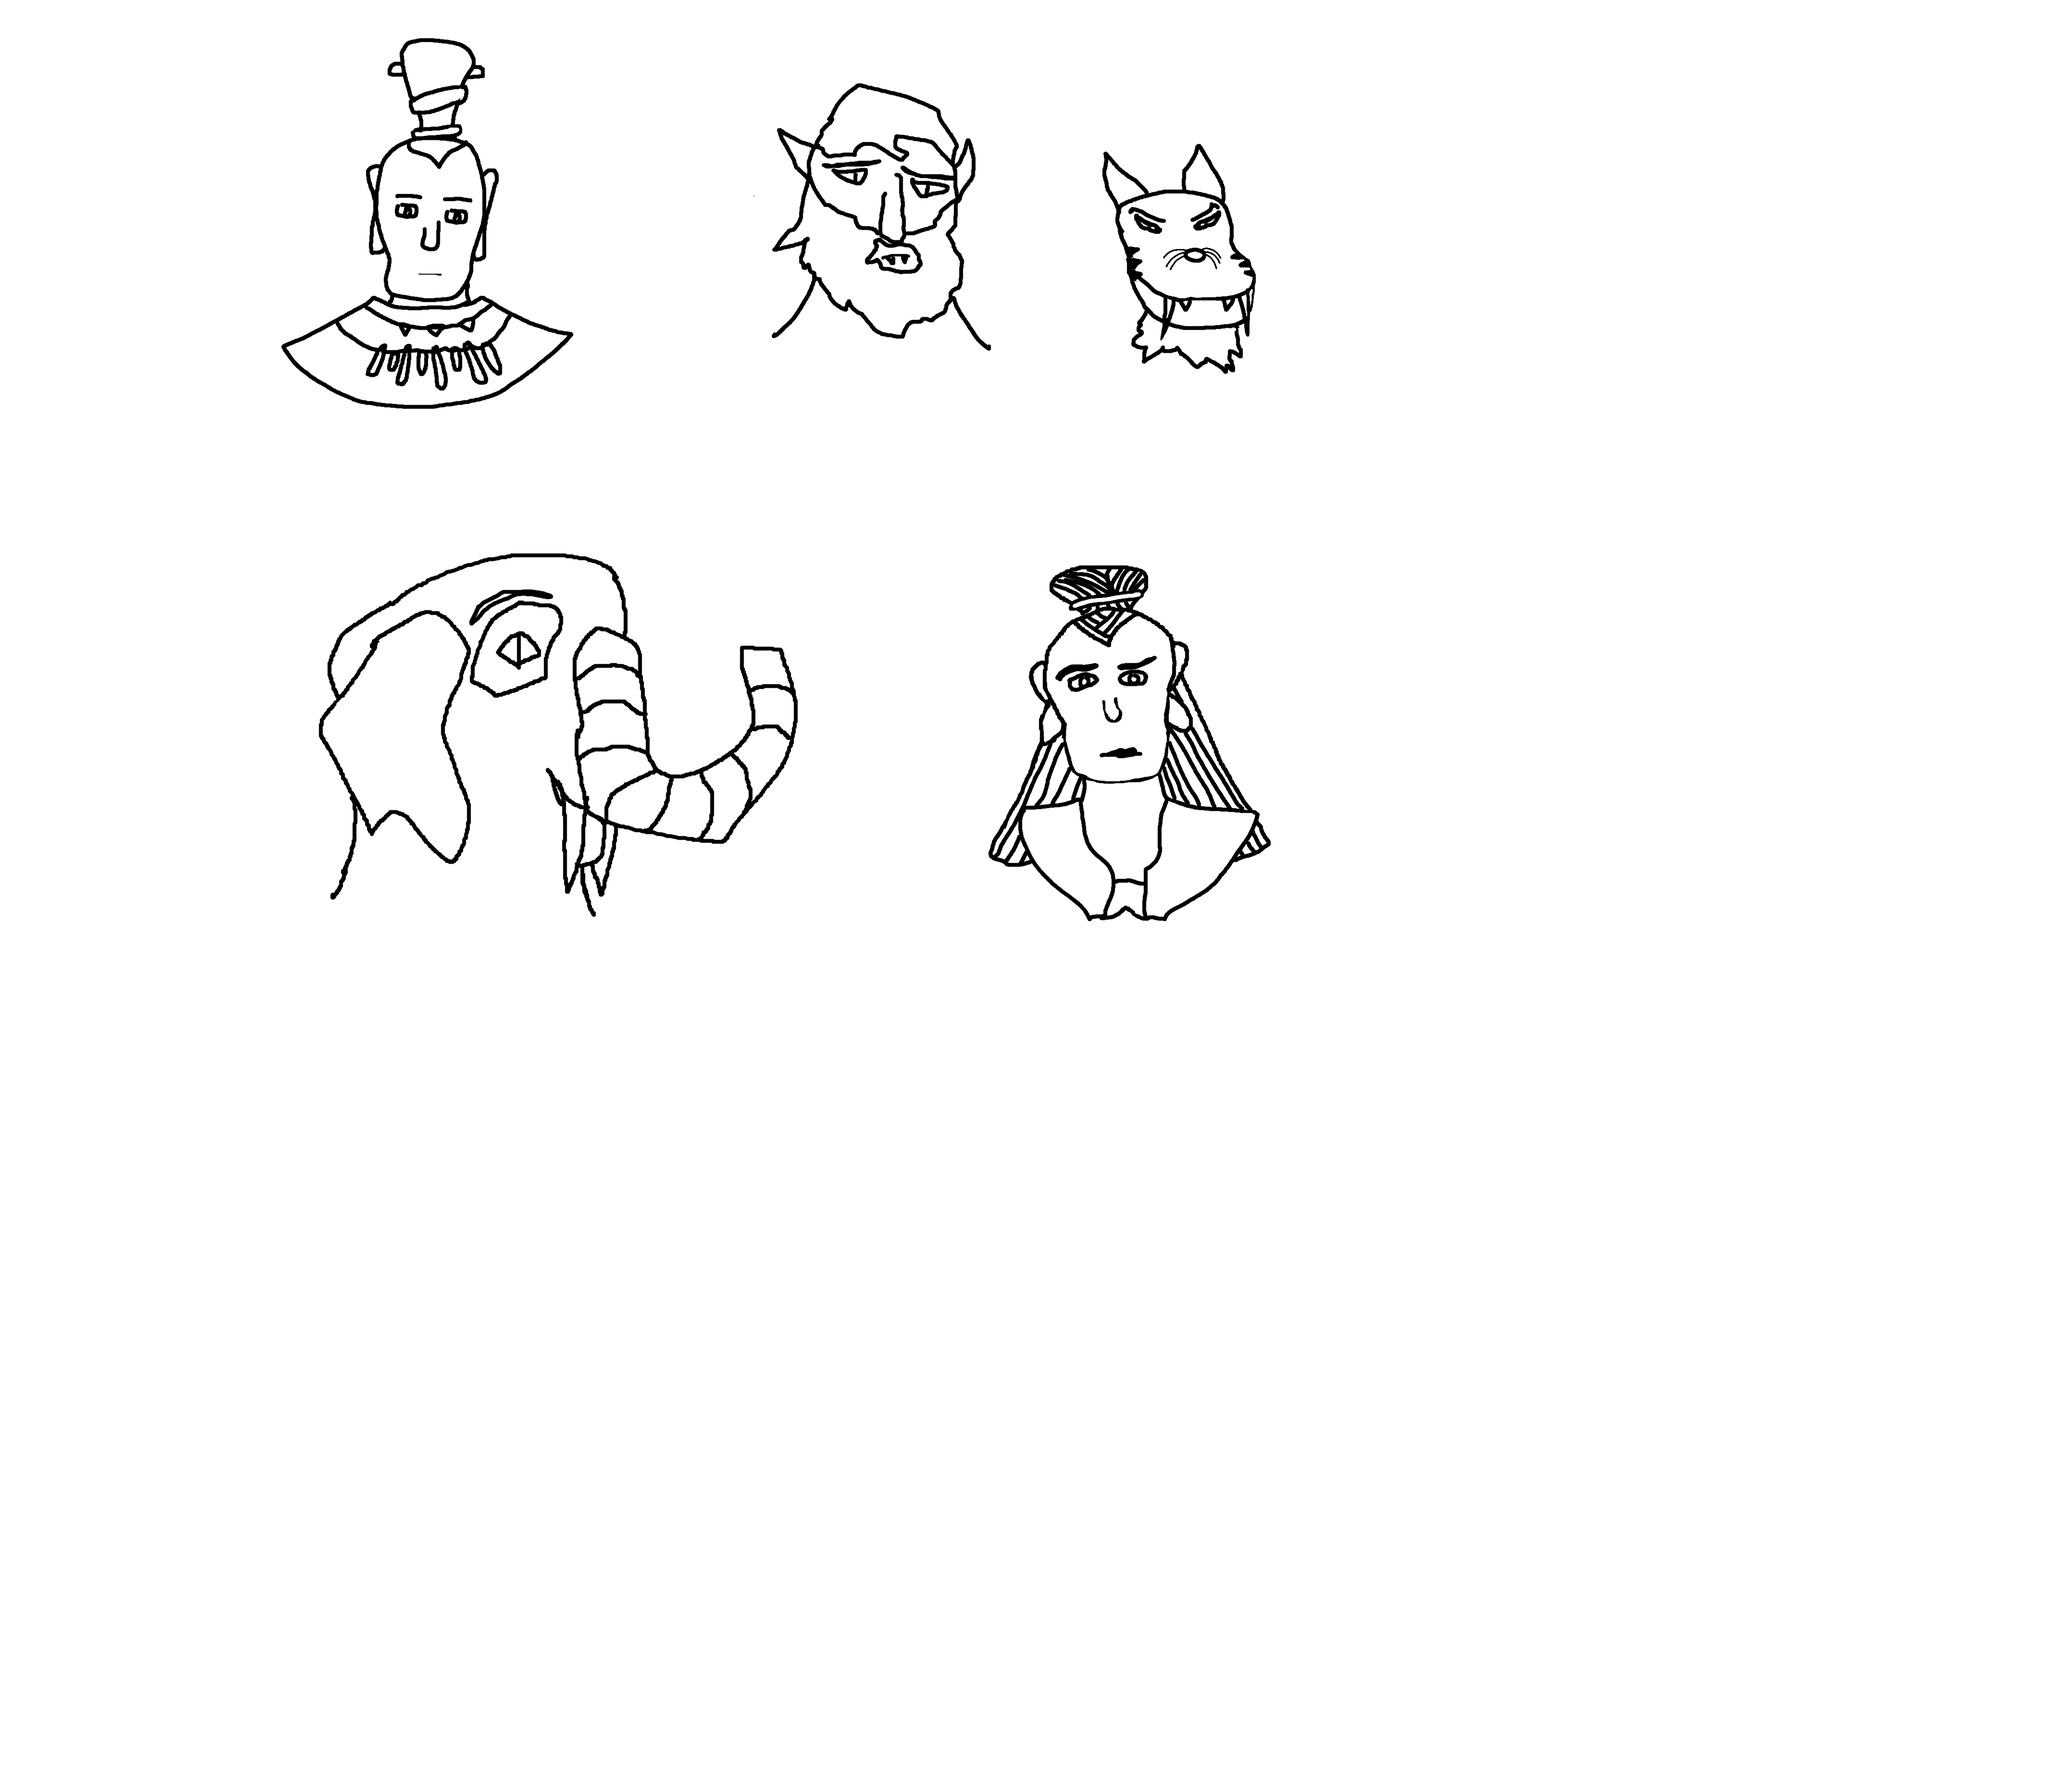
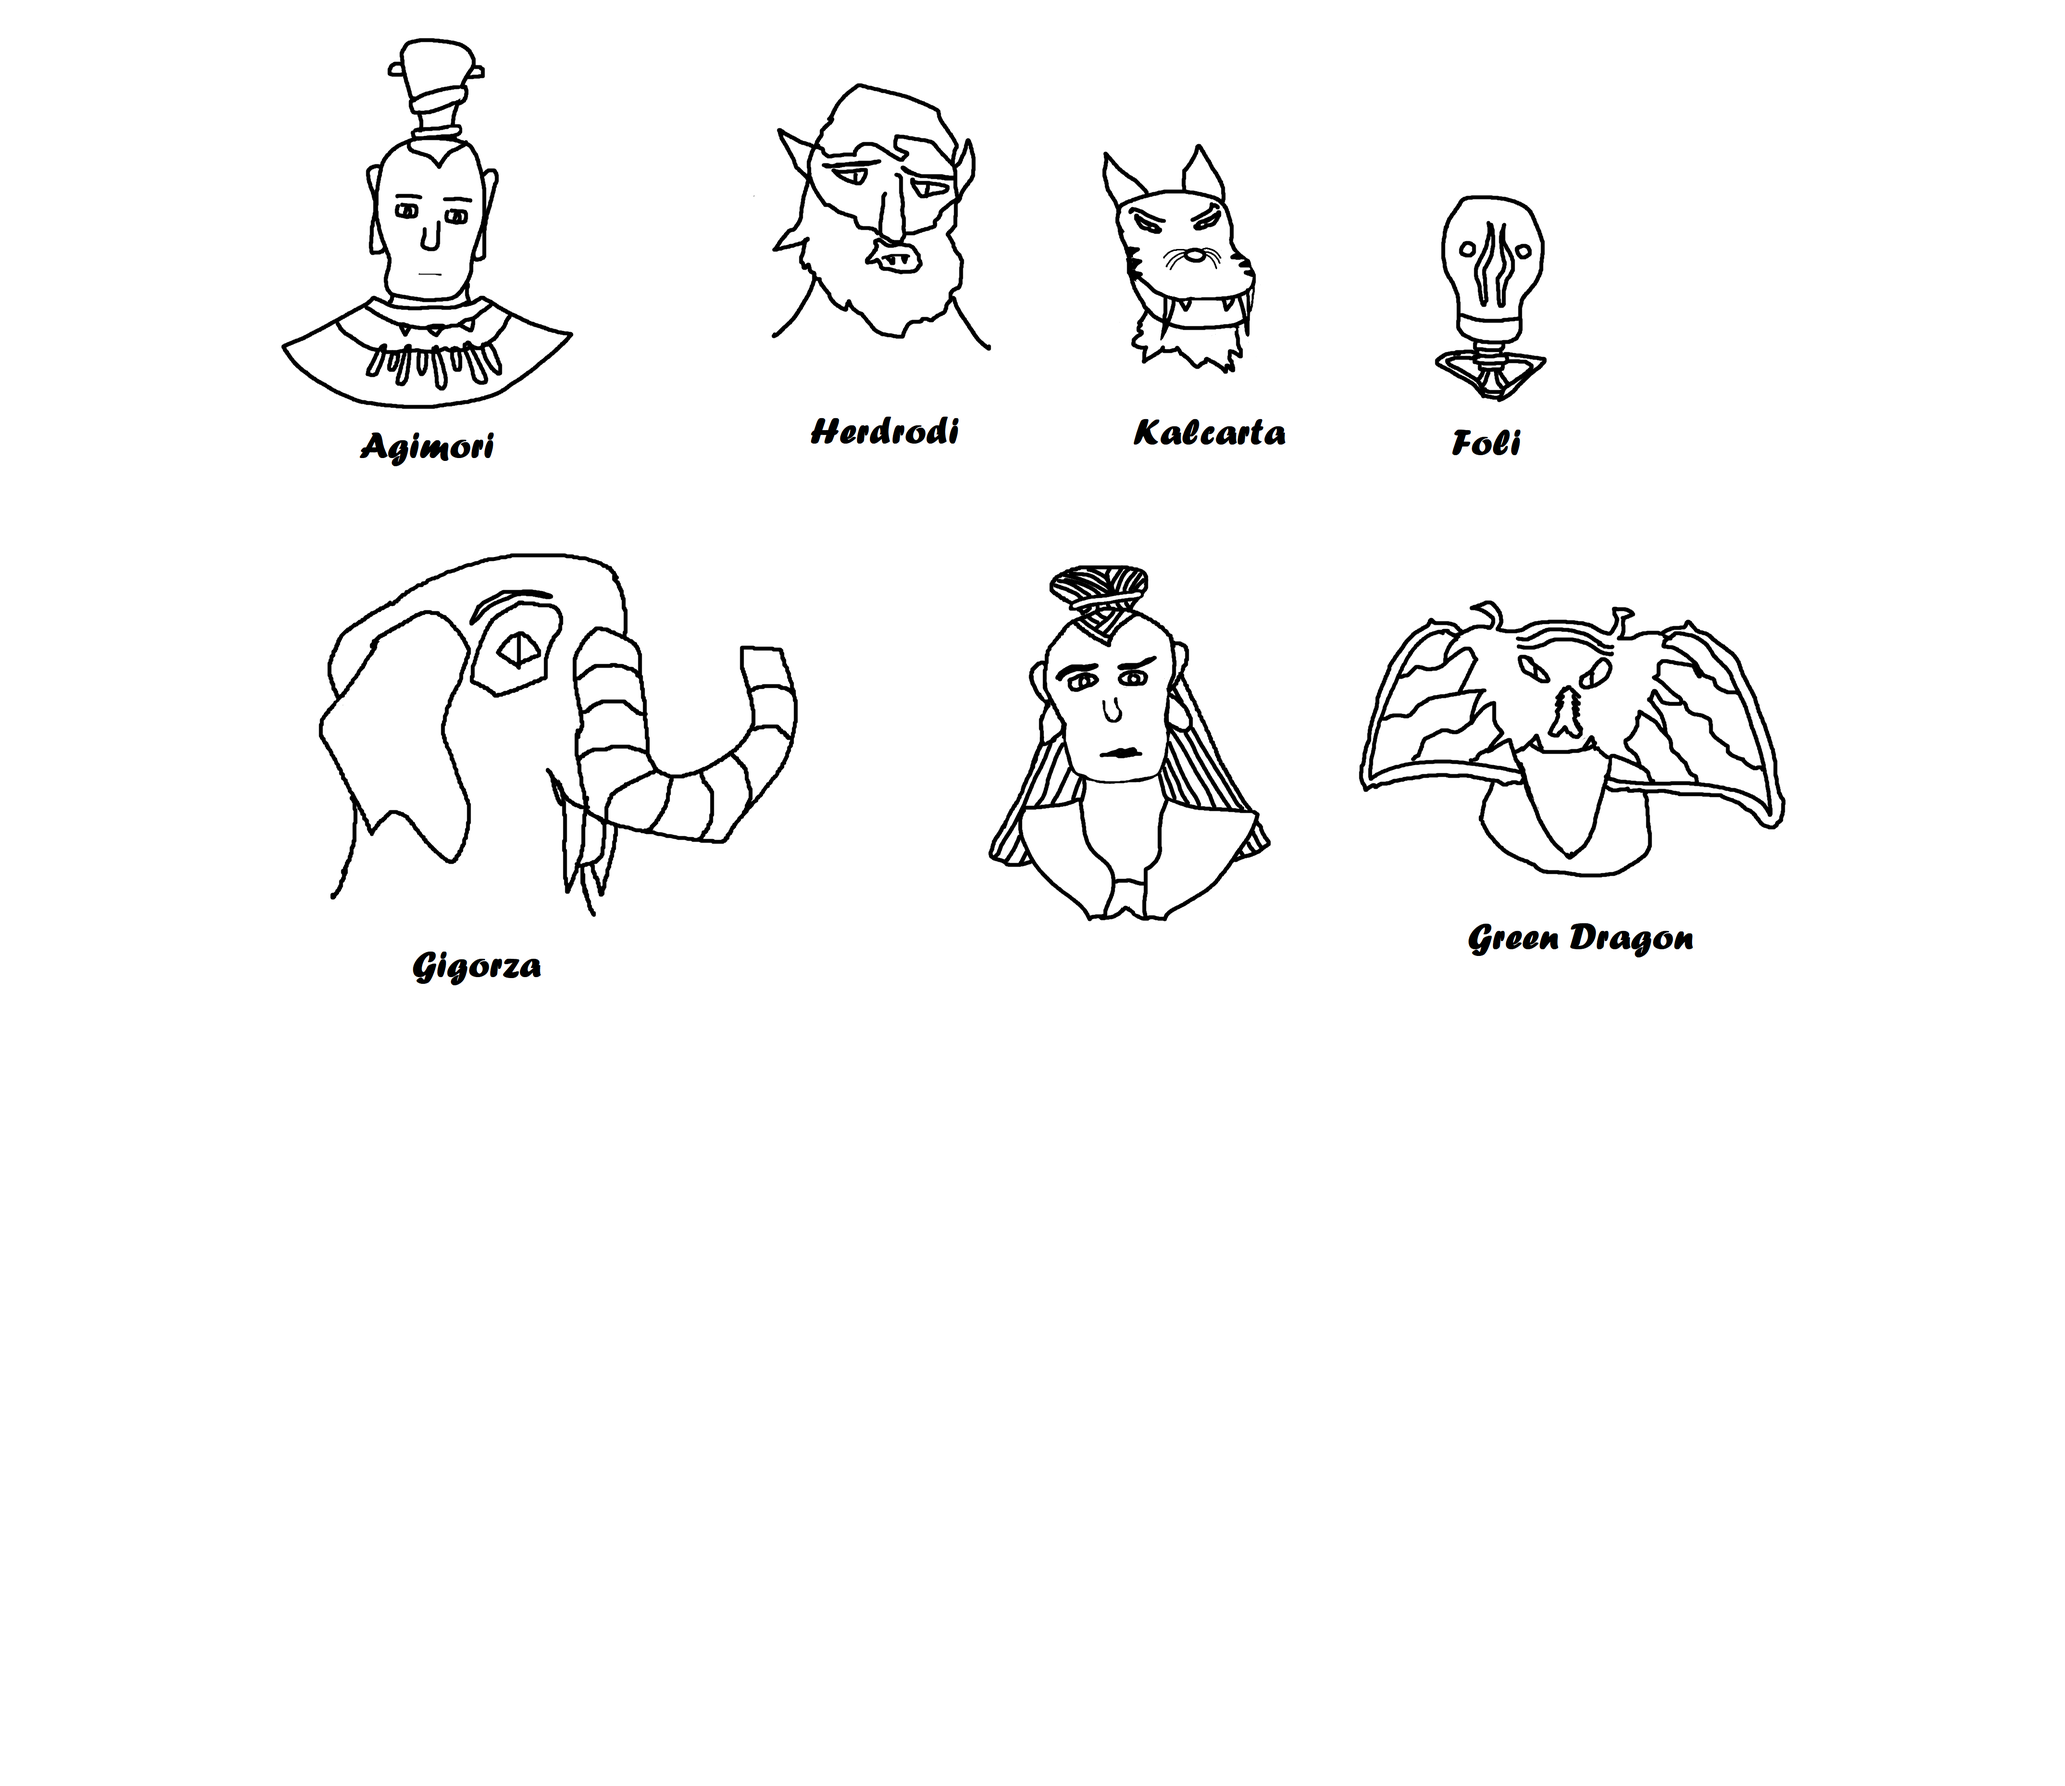
Green Dragons

diff --git a/theThing.html b/theThing.html
@@ -55,6 +55,9 @@
 					<img src="theThing/Herdrodi.png" style="width: 167px" alt="Beastmen"/>
 					<p>Beastmen: There have been sightings of large beasts in the lands south of Dominica that apparently are conjoined part man part beast.
 						They have been reported to travel in herds of their kind and wield large axehead or spear weapons akin to our own. Most disturbing, these beasts seem to have magical dominion over their environment to an unknown extent. Traveler beware!</p>
+					<img src="theThing/Green Dragons.png" style="width: 167px" alt="Green Dragons"/>
+					<p>Dragonmen: From the infernal Mount Desamu arose a legion of reptilian skinned humanoids bent on reclaiming relics of their mysterious past. The dragonmen resemble deformed flightless incarnations of classic dragons with staunch worship of their ancesters.
+						Emperial intellience suggests that this may be a lost dragonborn legion abandoned after the dragons retreated from the world of mortals. The Empire has yet to enter into a truce with these dragonmen of Mount Desamu. It is adviced by all of the Empire's citizens and subcitizens to stay clear of the Mountain under penalty of death.</p>
 					<img src="theThing/Kalcarta.png" style="width: 167px" alt="Kalcarta"/>
 					<p>Cat folk: Near the Green Blood Fields lays a large community of humanoid cat folk who showcase an understanding of the
 						common Empire languages. These intelligent beasts are quick to adapt to our arrival, already preparing diplomatic
